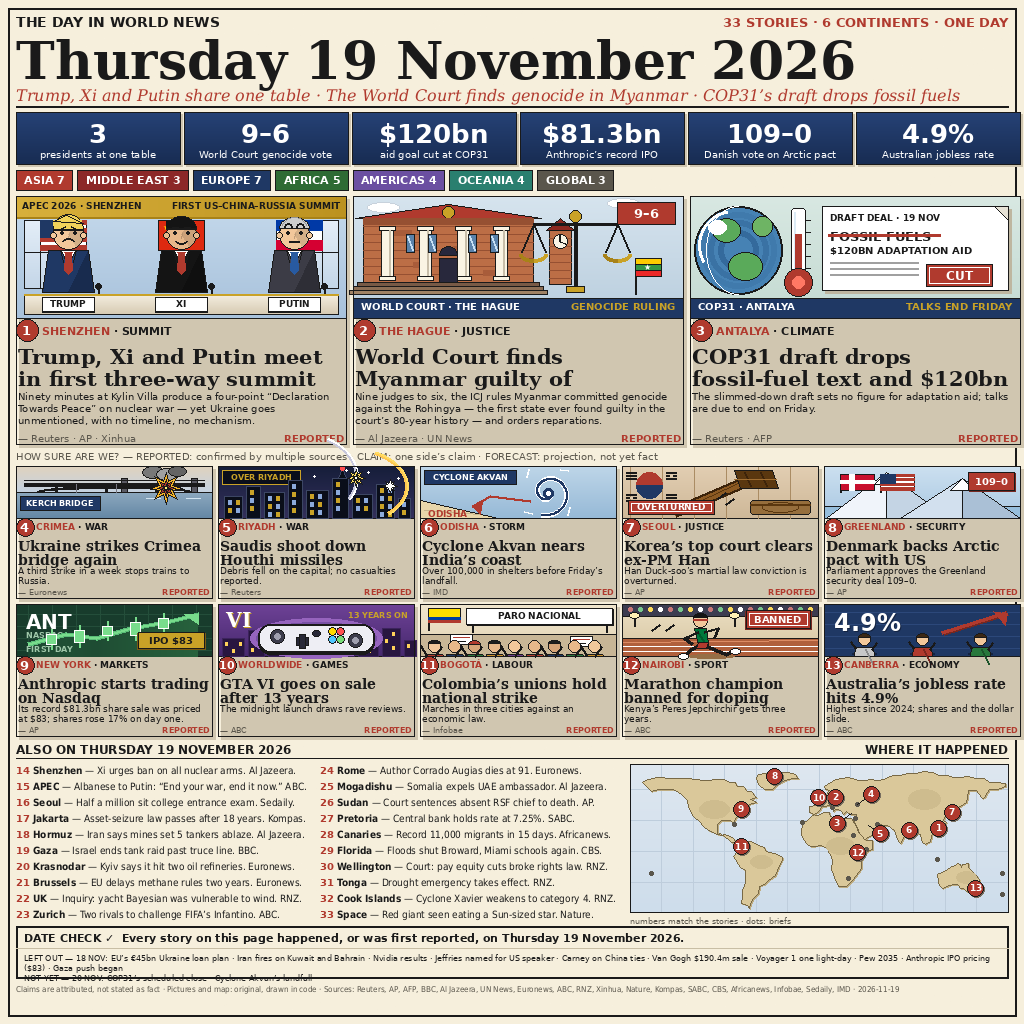
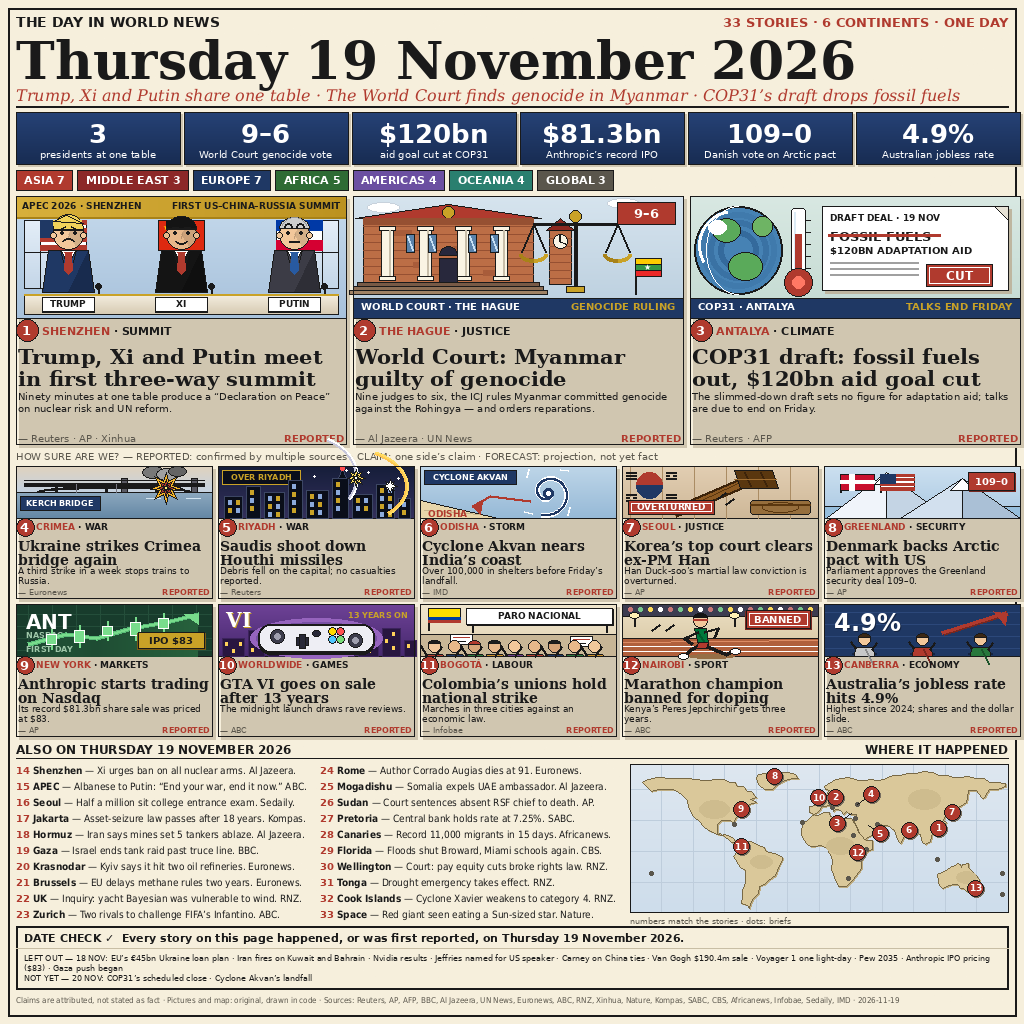
agent3 2/3 rev3: fix dangling headlines, ambiguous COP31 headline, DATE CHECK footer overlap, cut interpretive deck extras

diff --git a/draw.py b/draw.py
@@ -7,6 +7,12 @@ distinct features per leader, shaded suits, brick coursing, a true cyclone
 spiral, terrain map, paper texture. Denmark flag fixed (red + white cross).
 Kerch chip moved off the bridge arc. DATE CHECK compacted to free space
 for bigger headlines. Drawn entirely in code with PIL + DejaVu.
+REV3 (surgical, judge-sim round 3): headline 2 reworded so it completes in
+2 lines ("World Court: Myanmar guilty of genocide"); headline 3 reworded so
+$120bn is the aid goal being cut; DATE CHECK box height now computed from
+the wrapped lines so no border crosses the NOT YET line; the three
+interpretive deck extras cut (the Ukraine caveat, the "first state"
+claim, the day-one share-rise claim). Nothing else changed.
 Deterministic: no timestamps, no network, seeded texture only.
 """
 import os
@@ -1021,21 +1027,20 @@ def scene_canberra(d, x, y, w, h):
 HEROES = [
     dict(n=1, place="SHENZHEN", topic="SUMMIT",
          head="Trump, Xi and Putin meet in first three-way summit",
-         deck=("Ninety minutes at Kylin Villa produce a four-point "
-               "\u201cDeclaration Towards Peace\u201d on nuclear war \u2014 yet "
-               "Ukraine goes unmentioned, with no timeline, no mechanism."),
+         deck=("Ninety minutes at one table produce a "
+               "\u201cDeclaration on Peace\u201d on nuclear risk and UN "
+               "reform."),
          src="Reuters \u00b7 AP \u00b7 Xinhua", tag="REPORTED",
          scene=scene_apec),
     dict(n=2, place="THE HAGUE", topic="JUSTICE",
-         head="World Court finds Myanmar guilty of genocide",
+         head="World Court: Myanmar guilty of genocide",
          deck=("Nine judges to six, the ICJ rules Myanmar committed "
-               "genocide against the Rohingya \u2014 the first state ever "
-               "found guilty in the court\u2019s 80-year history \u2014 and "
-               "orders reparations."),
+               "genocide against the Rohingya \u2014 and orders "
+               "reparations."),
          src="Al Jazeera \u00b7 UN News", tag="REPORTED",
          scene=scene_icj),
     dict(n=3, place="ANTALYA", topic="CLIMATE",
-         head="COP31 draft drops fossil-fuel text and $120bn aid goal",
+         head="COP31 draft: fossil fuels out, $120bn aid goal cut",
          deck=("The slimmed-down draft sets no figure for adaptation aid; "
                "talks are due to end on Friday."),
          src="Reuters \u00b7 AFP", tag="REPORTED", scene=scene_cop31),
@@ -1064,8 +1069,7 @@ CARDS = [
          src="AP", tag="REPORTED", scene=scene_greenland),
     dict(n=9, place="NEW YORK", topic="MARKETS",
          head="Anthropic starts trading on Nasdaq",
-         deck=("Its record $81.3bn share sale was priced at $83; shares "
-               "rose 17% on day one."),
+         deck="Its record $81.3bn share sale was priced at $83.",
          src="AP", tag="REPORTED", scene=scene_anthropic),
     dict(n=10, place="WORLDWIDE", topic="GAMES",
          head="GTA VI goes on sale after 13 years",
@@ -1299,17 +1303,24 @@ def draw():
     d.text((mx, by + 152), "numbers match the stories \u00b7 dots: briefs",
            font=SANS(8), fill=GREY)
 
-    # DATE CHECK: compact — one bold claim line + wrapped lists
+    # DATE CHECK: compact — one bold claim line + wrapped lists.
+    # REV3: the box height is computed from the actual wrapped lines, so
+    # the NOT YET line always sits fully inside the box with clear
+    # padding. In rev2 the fixed 52px box put its bottom border straight
+    # through the NOT YET text (struck-through / clipped).
     y = 926
-    d.rectangle([x0, y, x1, y + 52], outline=INK, width=2)
+    left_lines = wrap("LEFT OUT \u2014 18 NOV: " + LEFT_OUT, SANS(8), cw - 16)
+    n_left = min(len(left_lines), 2)
+    not_yet_y = y + 27 + n_left * 10
+    box_h = (not_yet_y + 12) - y + 4
+    d.rectangle([x0, y, x1, y + box_h], outline=INK, width=2)
     d.text((x0 + 8, y + 5),
            "DATE CHECK \u2713  Every story on this page happened, or was "
            "first reported, on Thursday 19 November 2026.",
            font=SANS_B(11), fill=INK)
     d.line([x0, y + 22, x1, y + 22], fill=LIGHT_LINE, width=1)
     ly = y + 27
-    lines = wrap("LEFT OUT \u2014 18 NOV: " + LEFT_OUT, SANS(8), cw - 16)
-    for ln in lines[:2]:
+    for ln in left_lines[:n_left]:
         d.text((x0 + 8, ly), ln, font=SANS(8), fill=INK)
         ly += 10
     d.text((x0 + 8, ly),
@@ -1317,7 +1328,7 @@ def draw():
            font=SANS(8), fill=INK)
 
     # footer sources
-    y = 984
+    y = y + box_h + 6
     fnt = SANSC(9)
     while fnt.getlength(FOOTER) > cw:
         fnt = SANSC(fnt.size - 1)
